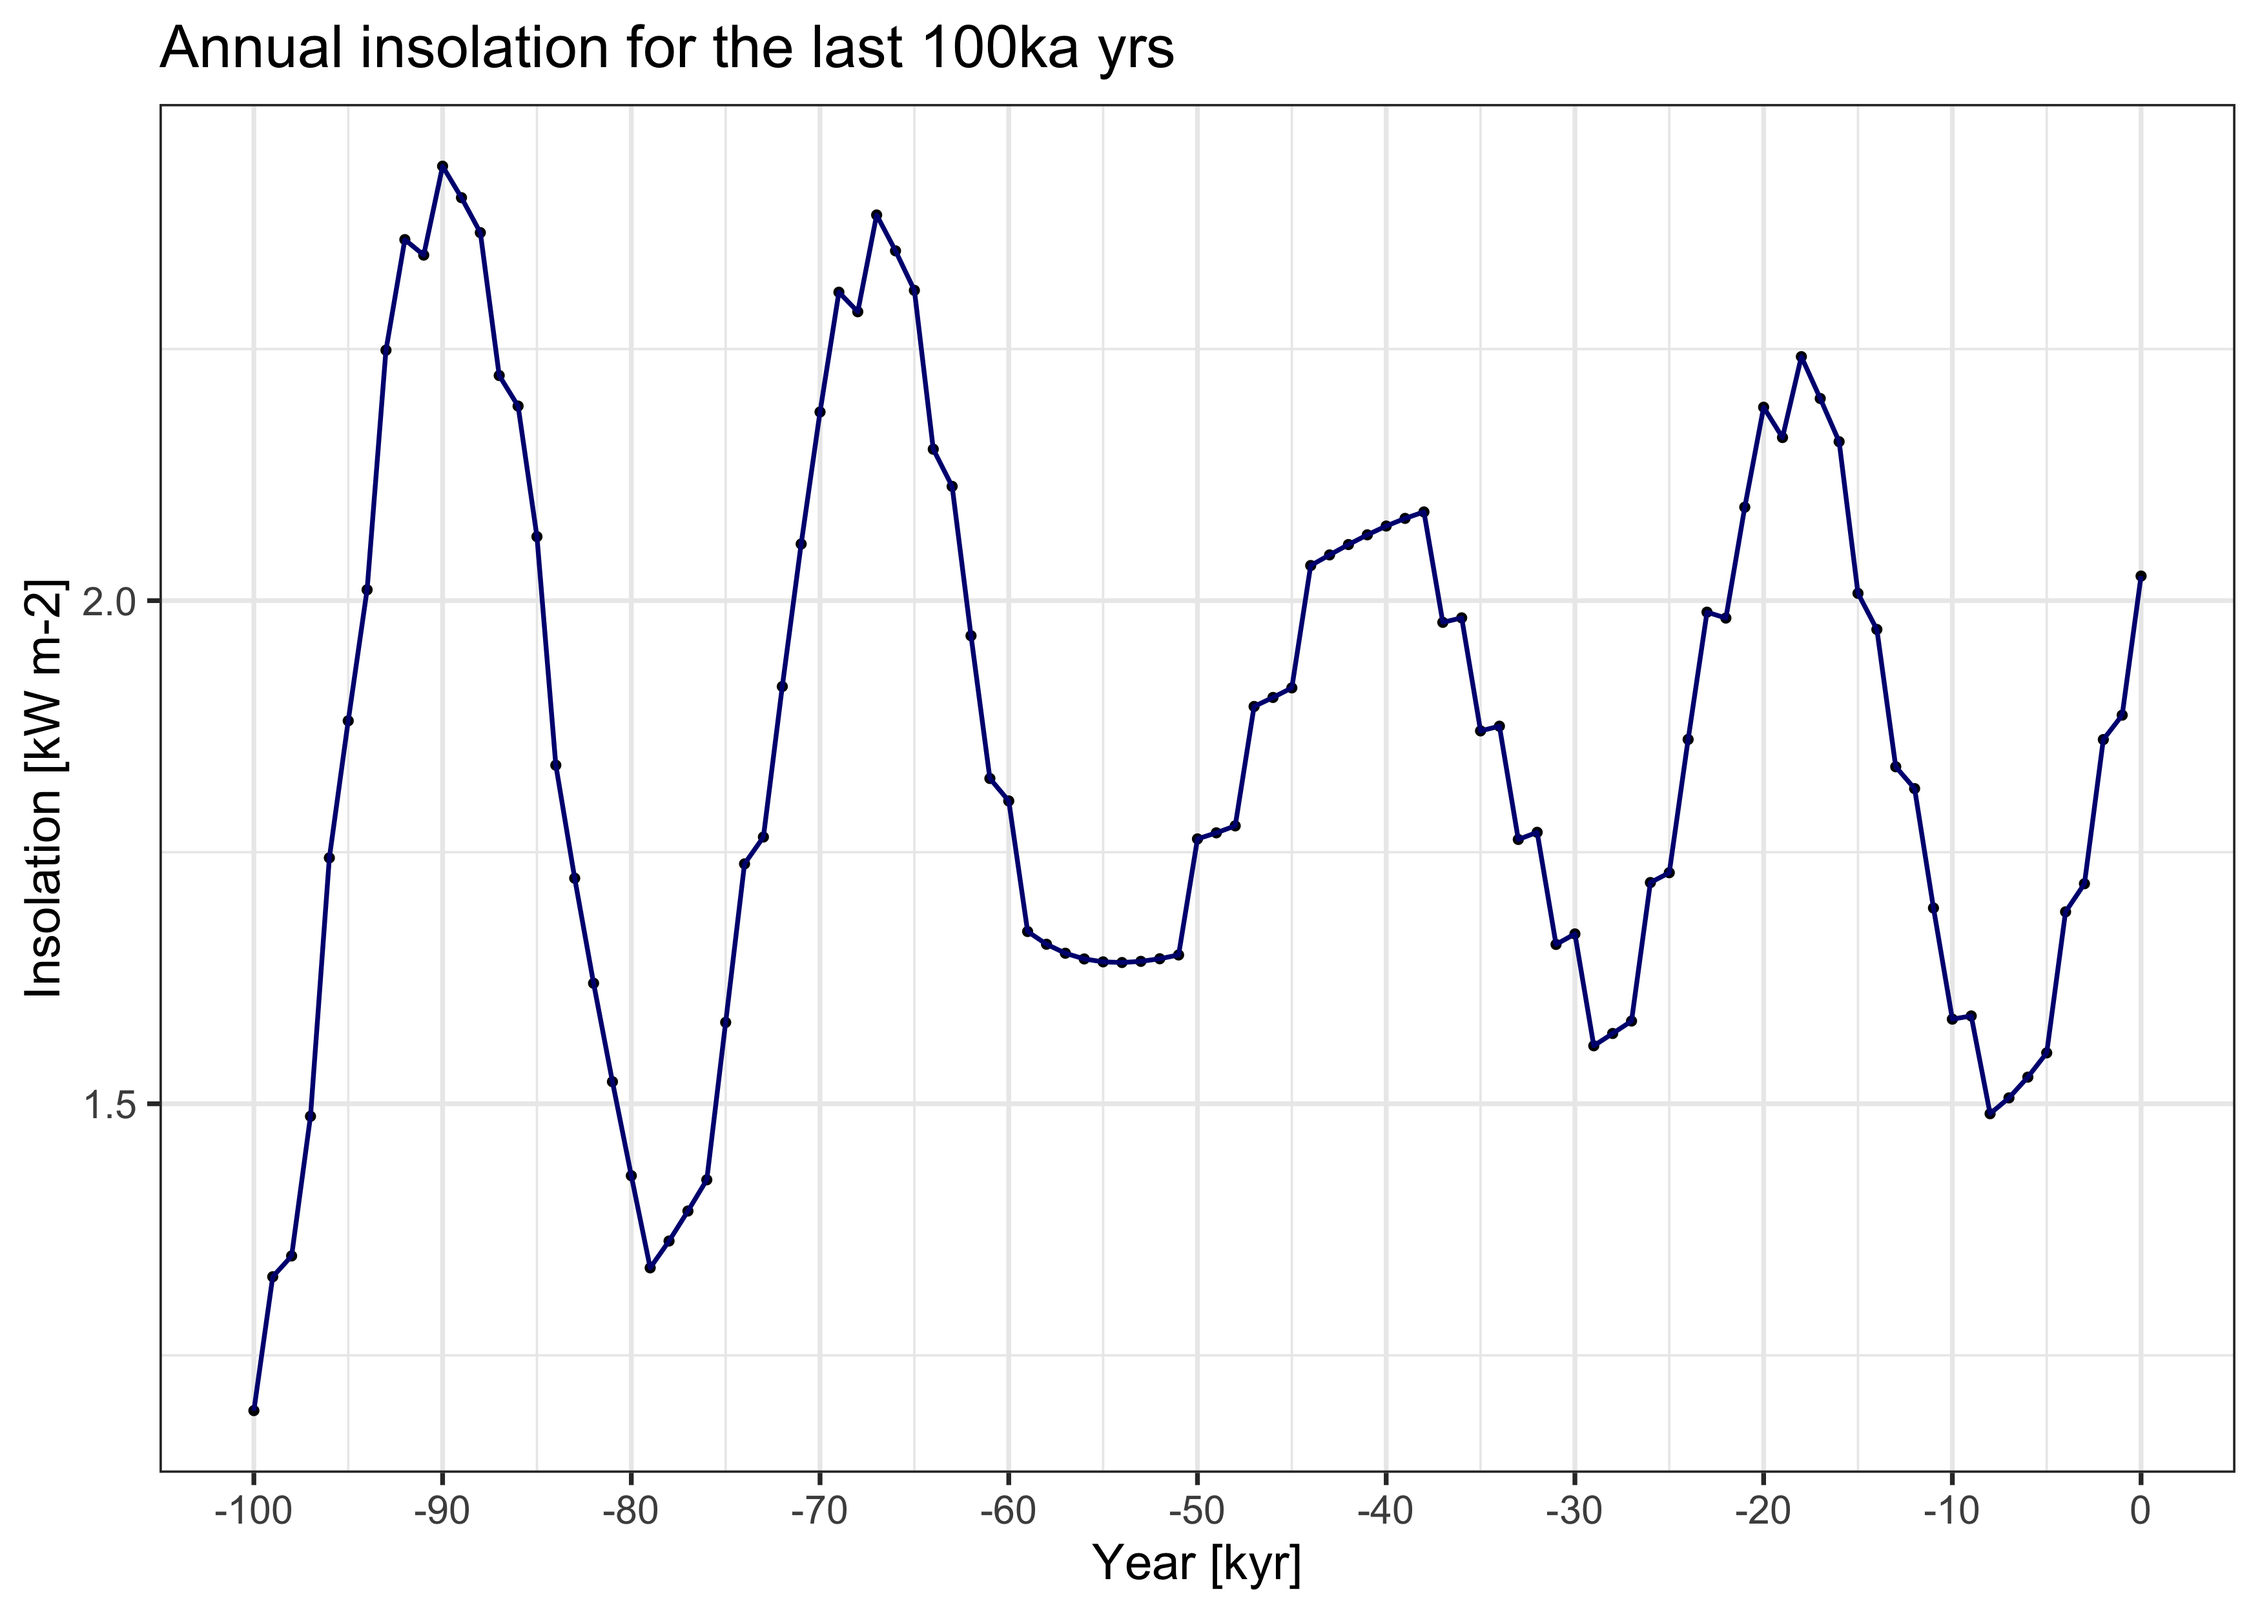
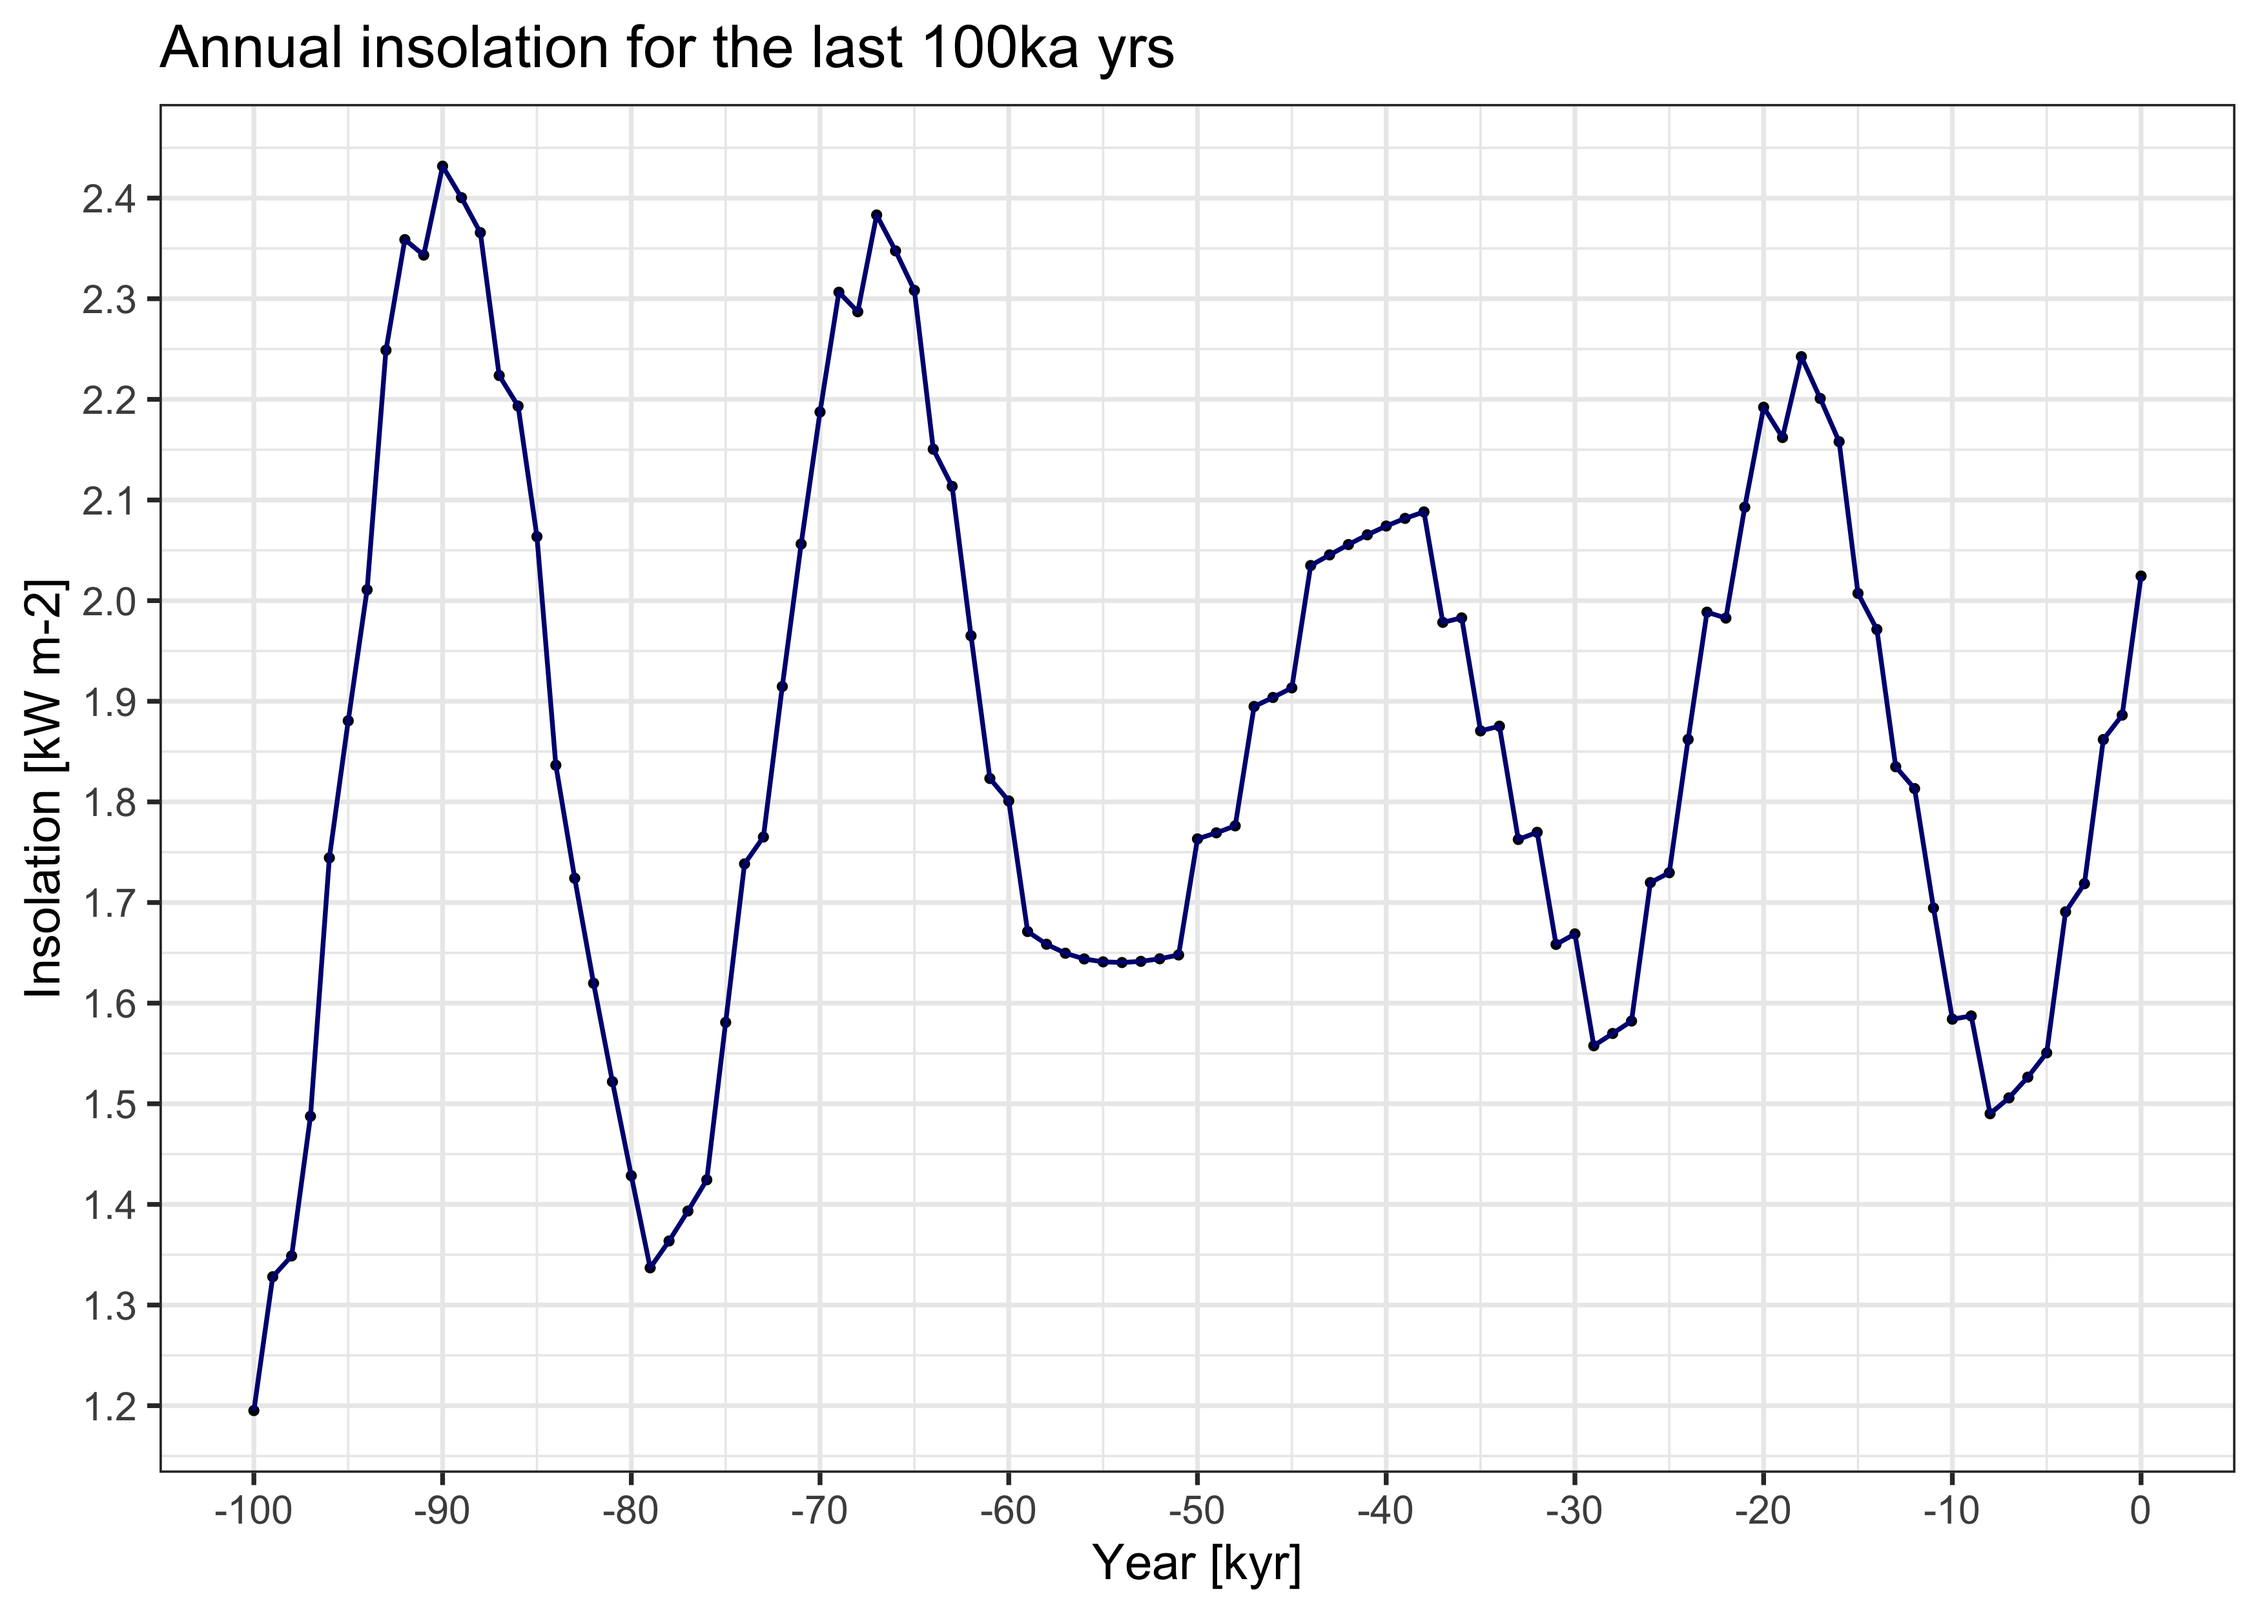
Adjust plot breaks

diff --git a/README.md b/README.md
@@ -243,6 +243,7 @@ insol_tbl %>%
                 y = "Insolation [kW m-2]",
                 title = "Annual insolation for the last 100ka yrs") +
   ggplot2::scale_x_continuous(breaks = scales::pretty_breaks(10)) +
+  ggplot2::scale_y_continuous(breaks = scales::pretty_breaks(10)) +
   ggplot2::theme_bw()
 ```
 
